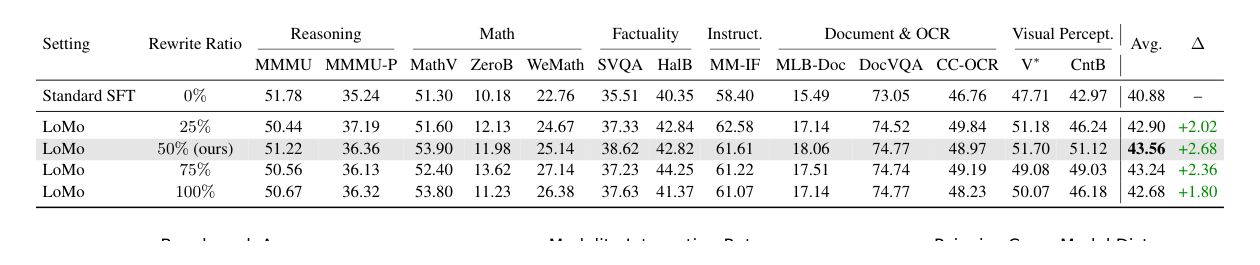
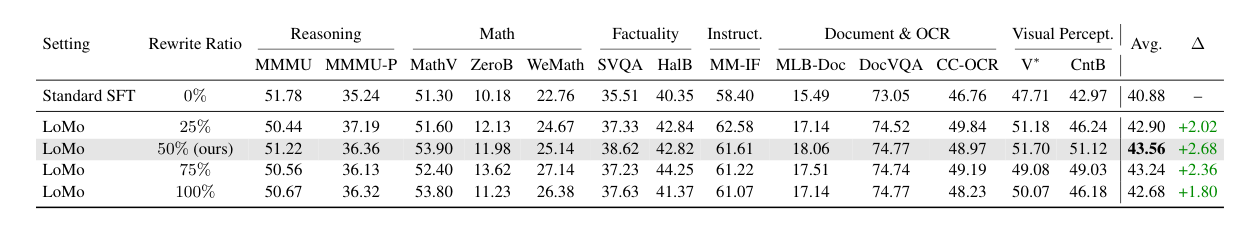
Refine LoMo overview formula and crops

Changed region(s): [[0.031, 0.0905, 0.9905, 0.9052]]

diff --git a/page/static/lomo.css b/page/static/lomo.css
@@ -68,23 +68,8 @@ body {
   text-align: left;
 }
 
-.lomo-formula {
-  display: inline-flex;
-  align-items: center;
-  justify-content: center;
-  margin-top: 0.2rem;
-  padding: 0.8rem 1.15rem;
-  color: var(--lomo-ink);
-  background: rgba(255, 255, 255, 0.72);
-  border: 1px solid var(--lomo-line);
-  border-radius: 999px;
-  box-shadow: 0 12px 30px rgba(23, 32, 51, 0.06);
-  font-size: 1.02rem;
-  letter-spacing: 0.01em;
-}
-
-.lomo-formula sub {
-  font-size: 0.72em;
+.math-inline {
+  white-space: nowrap;
 }
 
 .figure-block {
@@ -97,6 +82,18 @@ body {
   border: 1px solid var(--lomo-line);
   border-radius: 8px;
   box-shadow: 0 18px 42px rgba(23, 32, 51, 0.08);
+}
+
+.figure-block .formula-image {
+  display: block;
+  box-sizing: border-box;
+  width: min(100%, 900px);
+  margin: 1.15rem auto 0;
+  padding: 0.35rem 0.55rem;
+  background: white;
+  border: 0;
+  border-radius: 0;
+  box-shadow: none;
 }
 
 .figure-note {

diff --git a/page/index.html b/page/index.html
@@ -81,16 +81,14 @@
         <div class="column is-four-fifths">
           <h2 class="title is-3">LoMo Overview</h2>
           <p class="subtitle lomo-copy">
-            Compared with standard SFT, LoMo keeps the original supervision while adding an explicit alignment signal: the model must solve the same instruction after a local text span is replaced by its rendered-image counterpart. This encourages the token carrier and pixel carrier of the same semantics to become more interchangeable.
+            LoMo turns a text-only training instance into a text-image-text interleaved instance through three components: structure-aware span localization selects a coherent middle span, visual rendering converts it into an image, and perceptual distortion makes the rendered carrier more robust while preserving semantics.
           </p>
-          <div class="lomo-formula" aria-label="LoMo training objective">
-            <span>L<sub>LoMo</sub> = L<sub>SFT</sub>(x, y) + L<sub>SFT</sub>(LoMo(x), y)</span>
-          </div>
         </div>
       </div>
       <div class="content has-text-centered figure-block">
         <img src="./static/images/fig_lomo_overview.png" alt="Overview of LoMo">
-        <p class="figure-note">LoMo substitutes a local text span with a rendered visual carrier while preserving prefix and suffix context.</p>
+        <img class="formula-image" src="./static/images/eq_lomo_objective.png" alt="LoMo objective decomposition">
+        <p class="figure-note">Training on the substituted instance <span class="math-inline">T(x)</span> keeps the standard SFT supervision and introduces a cross-carrier alignment term, encouraging equivalent text and rendered-image carriers to produce consistent predictions.</p>
       </div>
     </div>
   </section>

diff --git a/README.md b/README.md
@@ -55,13 +55,13 @@ LoMo reformulates a text-only instance into an interleaved multimodal instance t
 2. **Visual Rendering.** The selected span is routed to a LaTeX renderer when it contains mathematical expressions and to a standard text renderer otherwise.
 3. **Perceptual Distortion.** The rendered image is perturbed with semantics-preserving visual degradations such as rotation, blur, stains, shadows, or local wave deformation.
 
-Compared with standard SFT, LoMo keeps the original supervision and adds an extra alignment signal by asking the model to solve the same instruction after a local text span is replaced by its rendered-image counterpart:
+Compared with standard SFT, LoMo keeps the same answer supervision but replaces a local text carrier with its rendered visual counterpart. The paper shows that optimizing the carrier-substituted instance can be decomposed into standard SFT supervision plus a cross-carrier alignment term:
 
 <p align="center">
-  <strong>L<sub>LoMo</sub> = L<sub>SFT</sub>(x, y) + L<sub>SFT</sub>(LoMo(x), y)</strong>
+  <img src="page/static/images/eq_lomo_objective.png" alt="LoMo objective decomposition" width="820">
 </p>
 
-This creates a training example where the answer still depends on the same semantics, but the model must combine textual context and rendered visual text within one sequence.
+Under expectation, the log-ratio corresponds to a KL-style pressure that aligns the model's predictions on the original text carrier and the substituted text-image carrier. This creates a training example where the answer still depends on the same semantics, but the model must combine textual context and rendered visual text within one sequence.
 
 ## Main Results
 